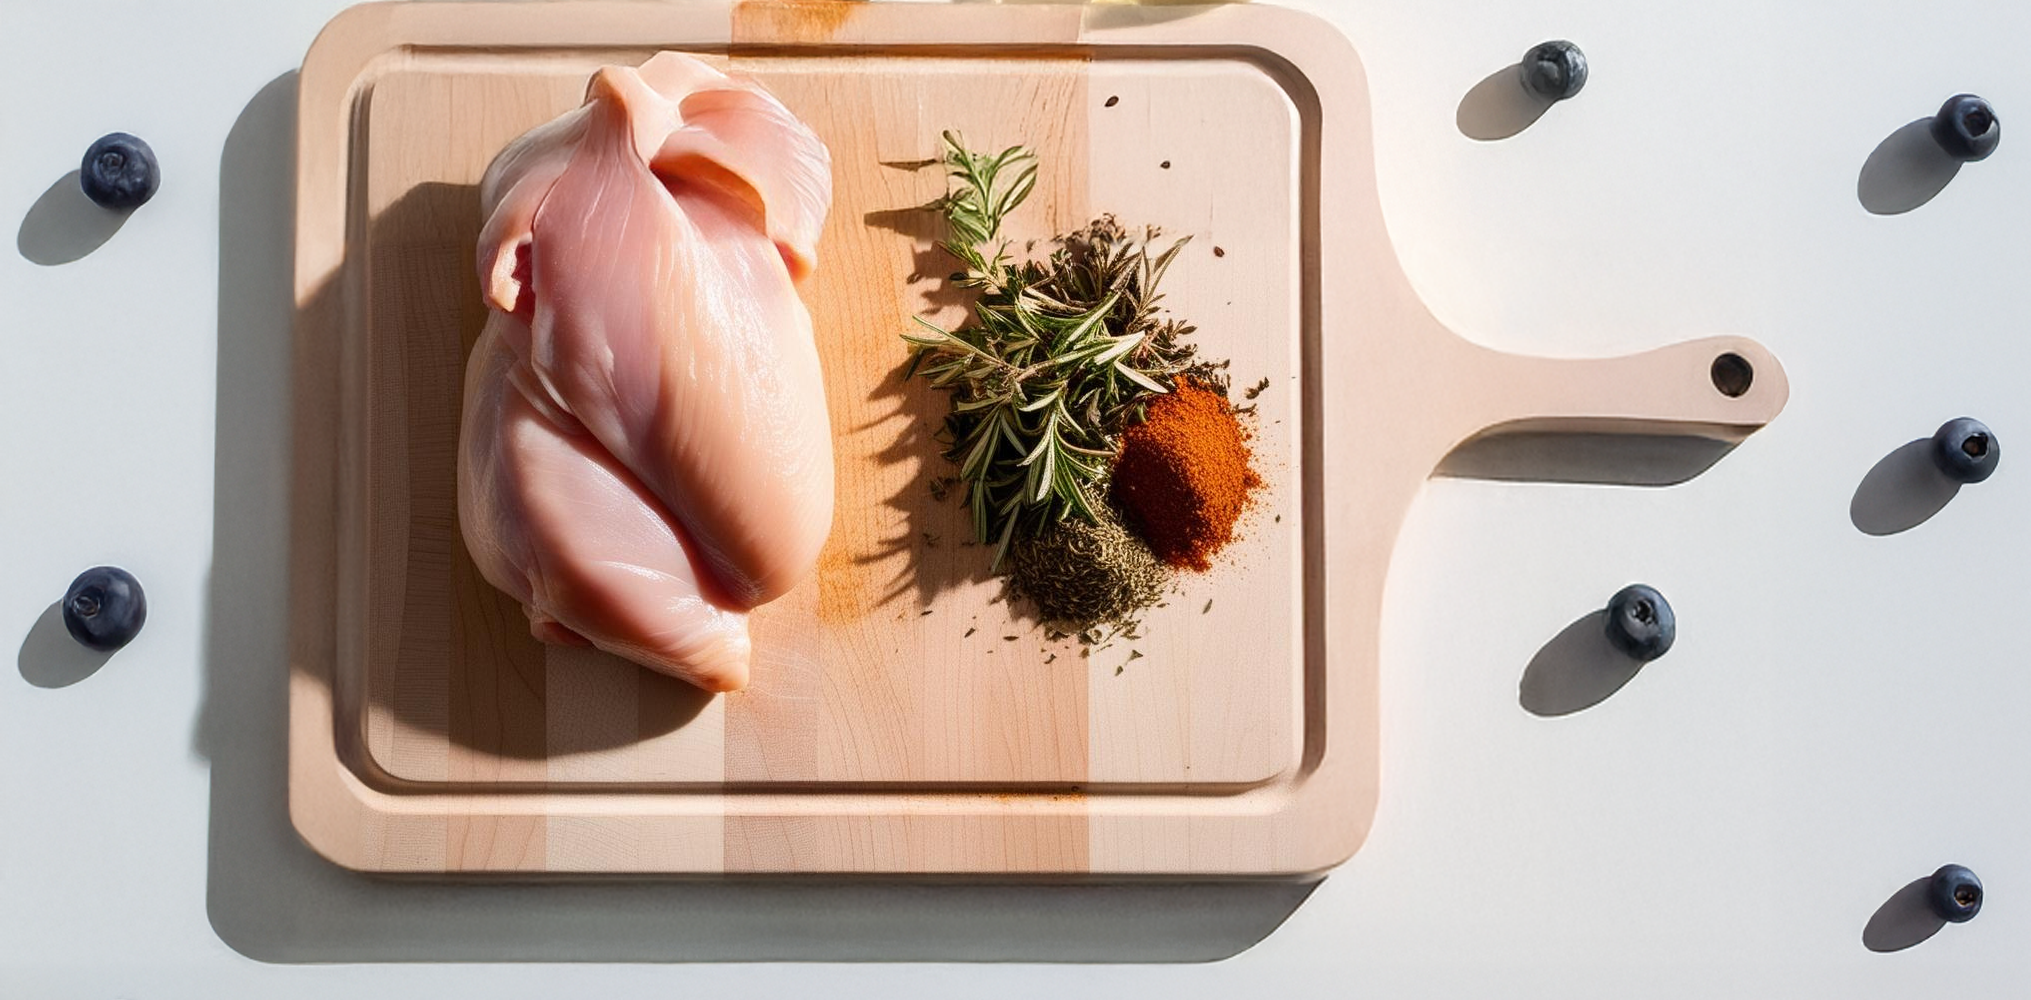
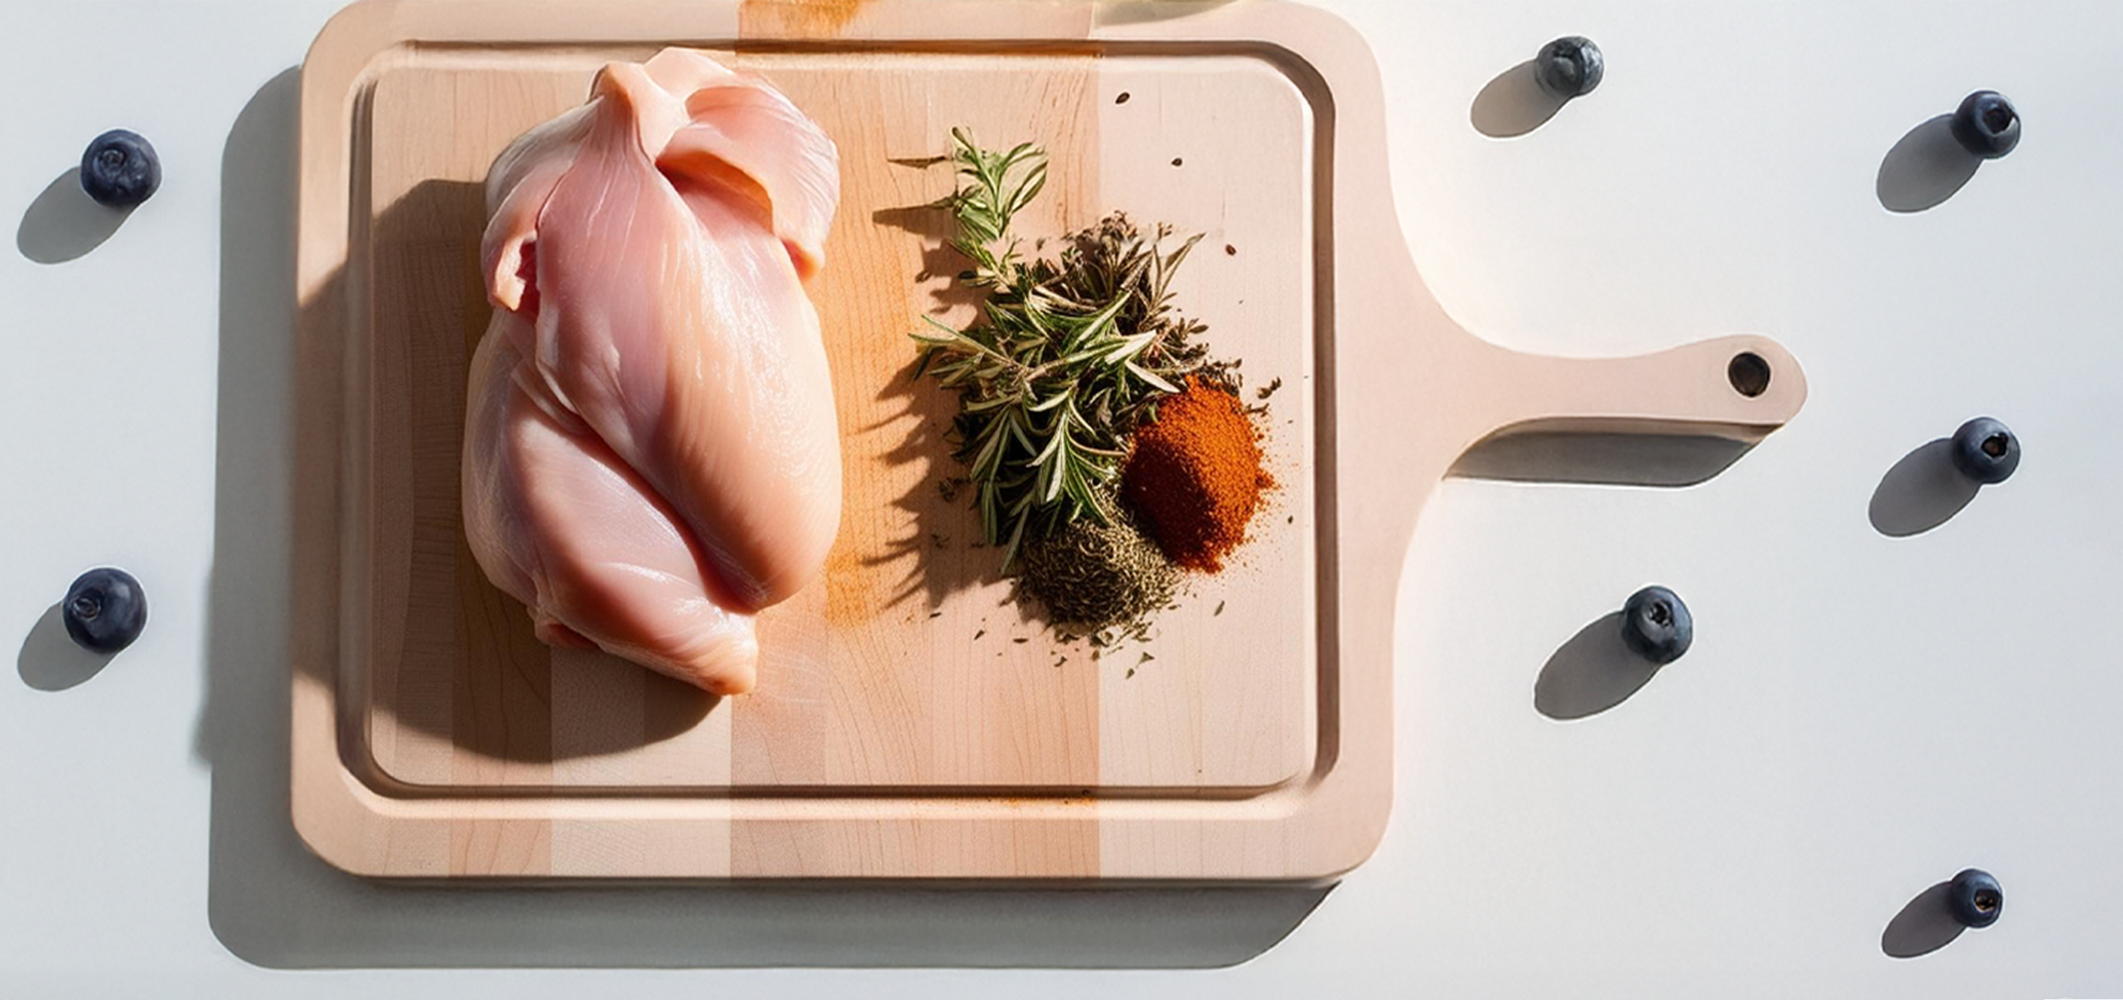
stuff

diff --git a/templates/contact.html b/templates/contact.html
@@ -1,17 +1,19 @@
 {% extends 'layout.html' %} {% block content %}
 <div class="container">
   <div class="row">
+    
     <h1>Contact Us</h1>
     <div class="col-lg-6 col-md-4 col-sm-12"
       <ol>
         <li>Phone: 13 11 14</li>
         <li>Email: Kfc@gmail.com</li>
-        <li>Address: 67 Goon Road</li>
+        <li>Address: 67 Mango Road</li>
       </ol>
     </div>
-    <div class="col-lg-6 col-md-8 col-sm-12">
-      <iframe src="https://www.google.com/maps/embed?pb=!1m18!1m12!1m3!1d3741.7475026434345!2d118.60946519139469!3d-20.31071589867867!2m3!1f0!2f0!3f0!3m2!1i1024!2i768!4f13.1!3m3!1m2!1s0x2bf54c4c92125d95%3A0x13d67a6310940b78!2sJim%20caffey%20memorial%20Hall!5e0!3m2!1sen!2sau!4v1750632969494!5m2!1sen!2sau" width="600" height="450" style="border:0;" allowfullscreen="" loading="lazy" referrerpolicy="no-referrer-when-downgrade"></iframe>
-    </div>
+<div class="ratio ratio-16x9">
+  <iframe src="https://www.google.com/maps/embed?pb=!1m18!1m12!1m3!1d3741.7475026434345!2d118.60946519139469!3d-20.31071589867867!2m3!1f0!2f0!3f0!3m2!1i1024!2i768!4f13.1!3m3!1m2!1s0x2bf54c4c92125d95%3A0x13d67a6310940b78!2sJim%20caffey%20memorial%20Hall!5e0!3m2!1sen!2sau!4v1750632969494!5m2!1sen!2sau"
+></iframe>
+</div>
   </div>
 </div>
 <html>
@@ -66,4 +68,5 @@
   
 </body>
 </html>
+
 {% endblock %}

diff --git a/templates/recipes.html b/templates/recipes.html
@@ -1,14 +1,12 @@
-{% extends 'layout.html' %} {% block content %}
+
+{% extends 'layout.html' %}
+{% block content %}
 <div class="container">
   <div class="row">
-
-
-
     <h1>Recipe for KFC's fried chicken</h1>
     <div style="height: 100px"></div>
     <div class="container">
       <div class="row">
-        <div class="col-9"><h2></h2></div>
         <div class="col-4">
           <h2>Ingredients</h2>
           <ul>
@@ -49,10 +47,10 @@
             <li>Meanwhile, heat 7-8cm canola oil in a large casserole or similar heavy-based pan with high sides over medium-high heat to 180°C. (Use a deep-frying thermometer to check the temperature.) When temperature is reached, lower the heat to medium to maintain the oil at 180°C. Fry 3 or 4 pieces of chicken at a time, being careful not to crowd the pan. Fry for 15-18 minutes, turning once, until medium golden brown. Transfer chicken pieces to a baking tray lined with paper towel. Allow the oil to return to 180°C each time before adding more chicken. Repeat with remaining chicken, then serve.</li>
           </ol>
         </div>
-        
+        <div class="col-2 d-flex align-items-center">
+          <img src="static/images/chicken.png"/>
+        </div>
       </div>
     </div>
   </div>
-
-  {% endblock %}
-</div>
+{% endblock %}

diff --git a/templates/index.html b/templates/index.html
@@ -8,10 +8,7 @@
         <img src="{{ card[3]}}" class="card-img-top" alt="..." />
         <div class="card-body">
           <h5 class="card-title">{{card[0]}}</h5>
-          <p class="card-text">
-            {{card[1]}} Some quick example text to build on the card title and
-            make up the bulk of the card’s content.
-          </p>
+          <p class="card-text">{{card[1]}}</p>
           <a href="{{ card[4]}}" class="btn btn-primary {{card[5]}}"
             >{{card[0]}}</a
           >

diff --git a/templates/signin.html b/templates/signin.html
@@ -37,12 +37,6 @@
         class="btn btn-tertiary rounded-pill"
       >
       <a class="dropdown-item" href="/">Submit</a>
-      <button
-      onclick="document.getElementById('a').style.display='block'"
-      class="btn btn-tertiary rounded-pill w-100"
-    >
-    <a class="dropdown-item" href="/">Sign Up</a>
-    </button>
       </button>
       <div id="a" class="alert alert-primary mt-3" style="display: none">
         Success!!!

diff --git a/static/css/style.css b/static/css/style.css
@@ -20,3 +20,8 @@
   color: rgb(255, 255, 255);
   background-color: #000000;
 }
+.carousel-inner {
+  background-color: rgb(0, 0, 0);
+  border: Solid, rgb(0, 0, 0);
+  border-width: 15px;
+}

diff --git a/templates/partials/slider.html b/templates/partials/slider.html
@@ -1,3 +1,4 @@
+<h1 class="display-1 text-center">FRIED CHICKEN</h1>
 <div
   id="carouselExampleAutoplaying"
   class="carousel slide"

diff --git a/main.py b/main.py
@@ -9,10 +9,10 @@ def index():
     card_data = (
         ("KFC", "What is KFC?", "More", "static/images/card1.png", "recipes.html",),
         ("Homemade KFC", "How to make chicken", "", "static/images/card2.png", "recipes.html", "disabled"),
-        ("KFC Resturaunts", "Description", "Button text", "static/images/card3.png", "", "disabled"),
-        ("The Colonel", "Description", "Button text", "static/images/card4.png", "", "disabled"),
-        ("Reviews", "Description", "Button text", "static/images/card5.png", "", "disabled"),
-        ("Guide to eating", "Description", "Button text", "static/images/card6.png", "", "disabled"),
+        ("KFC Resturaunts", "Where to get KFC", "Button text", "static/images/card3.png", "", "disabled"),
+        ("The Colonel", "Who invented chicken", "Button text", "static/images/card4.png", "", "disabled"),
+        ("Reviews", "Happy customers", "Button text", "static/images/card5.png", "", "disabled"),
+        ("Guide to eating", "Simple and easy to follow", "Button text", "static/images/card6.png", "", "disabled"),
     )
     return render_template("index.html", cards=card_data),200
 
